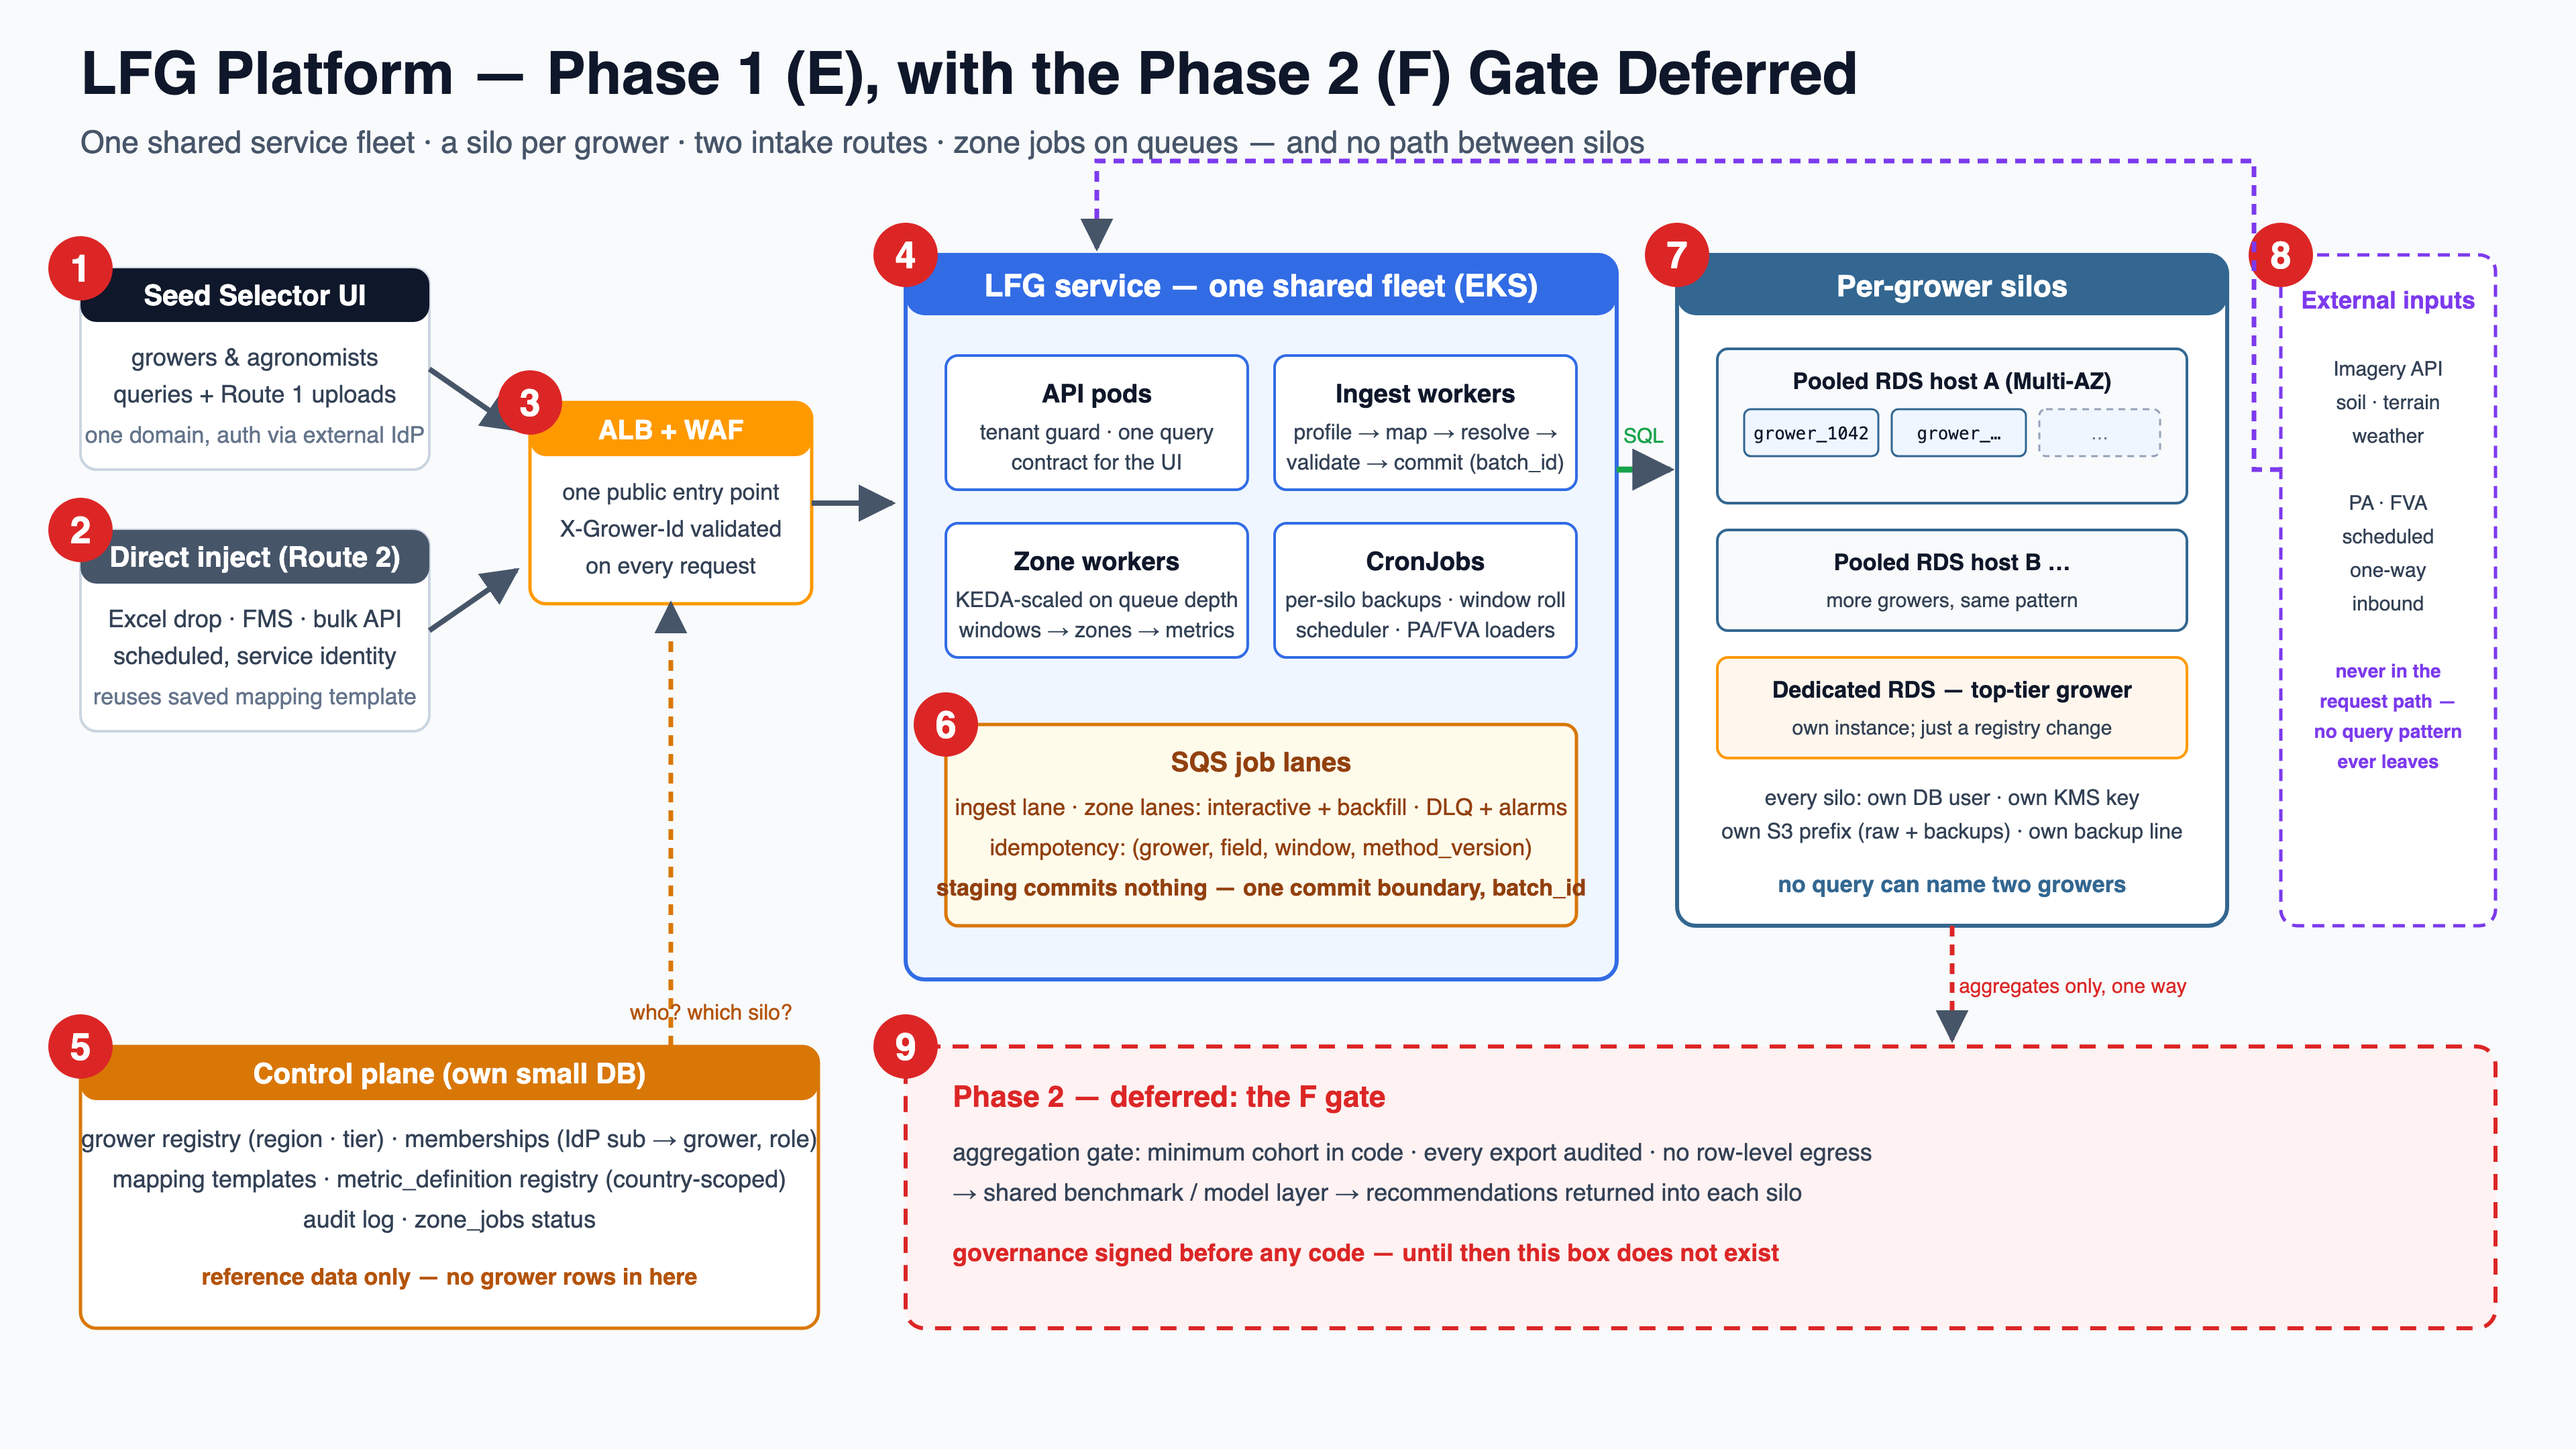
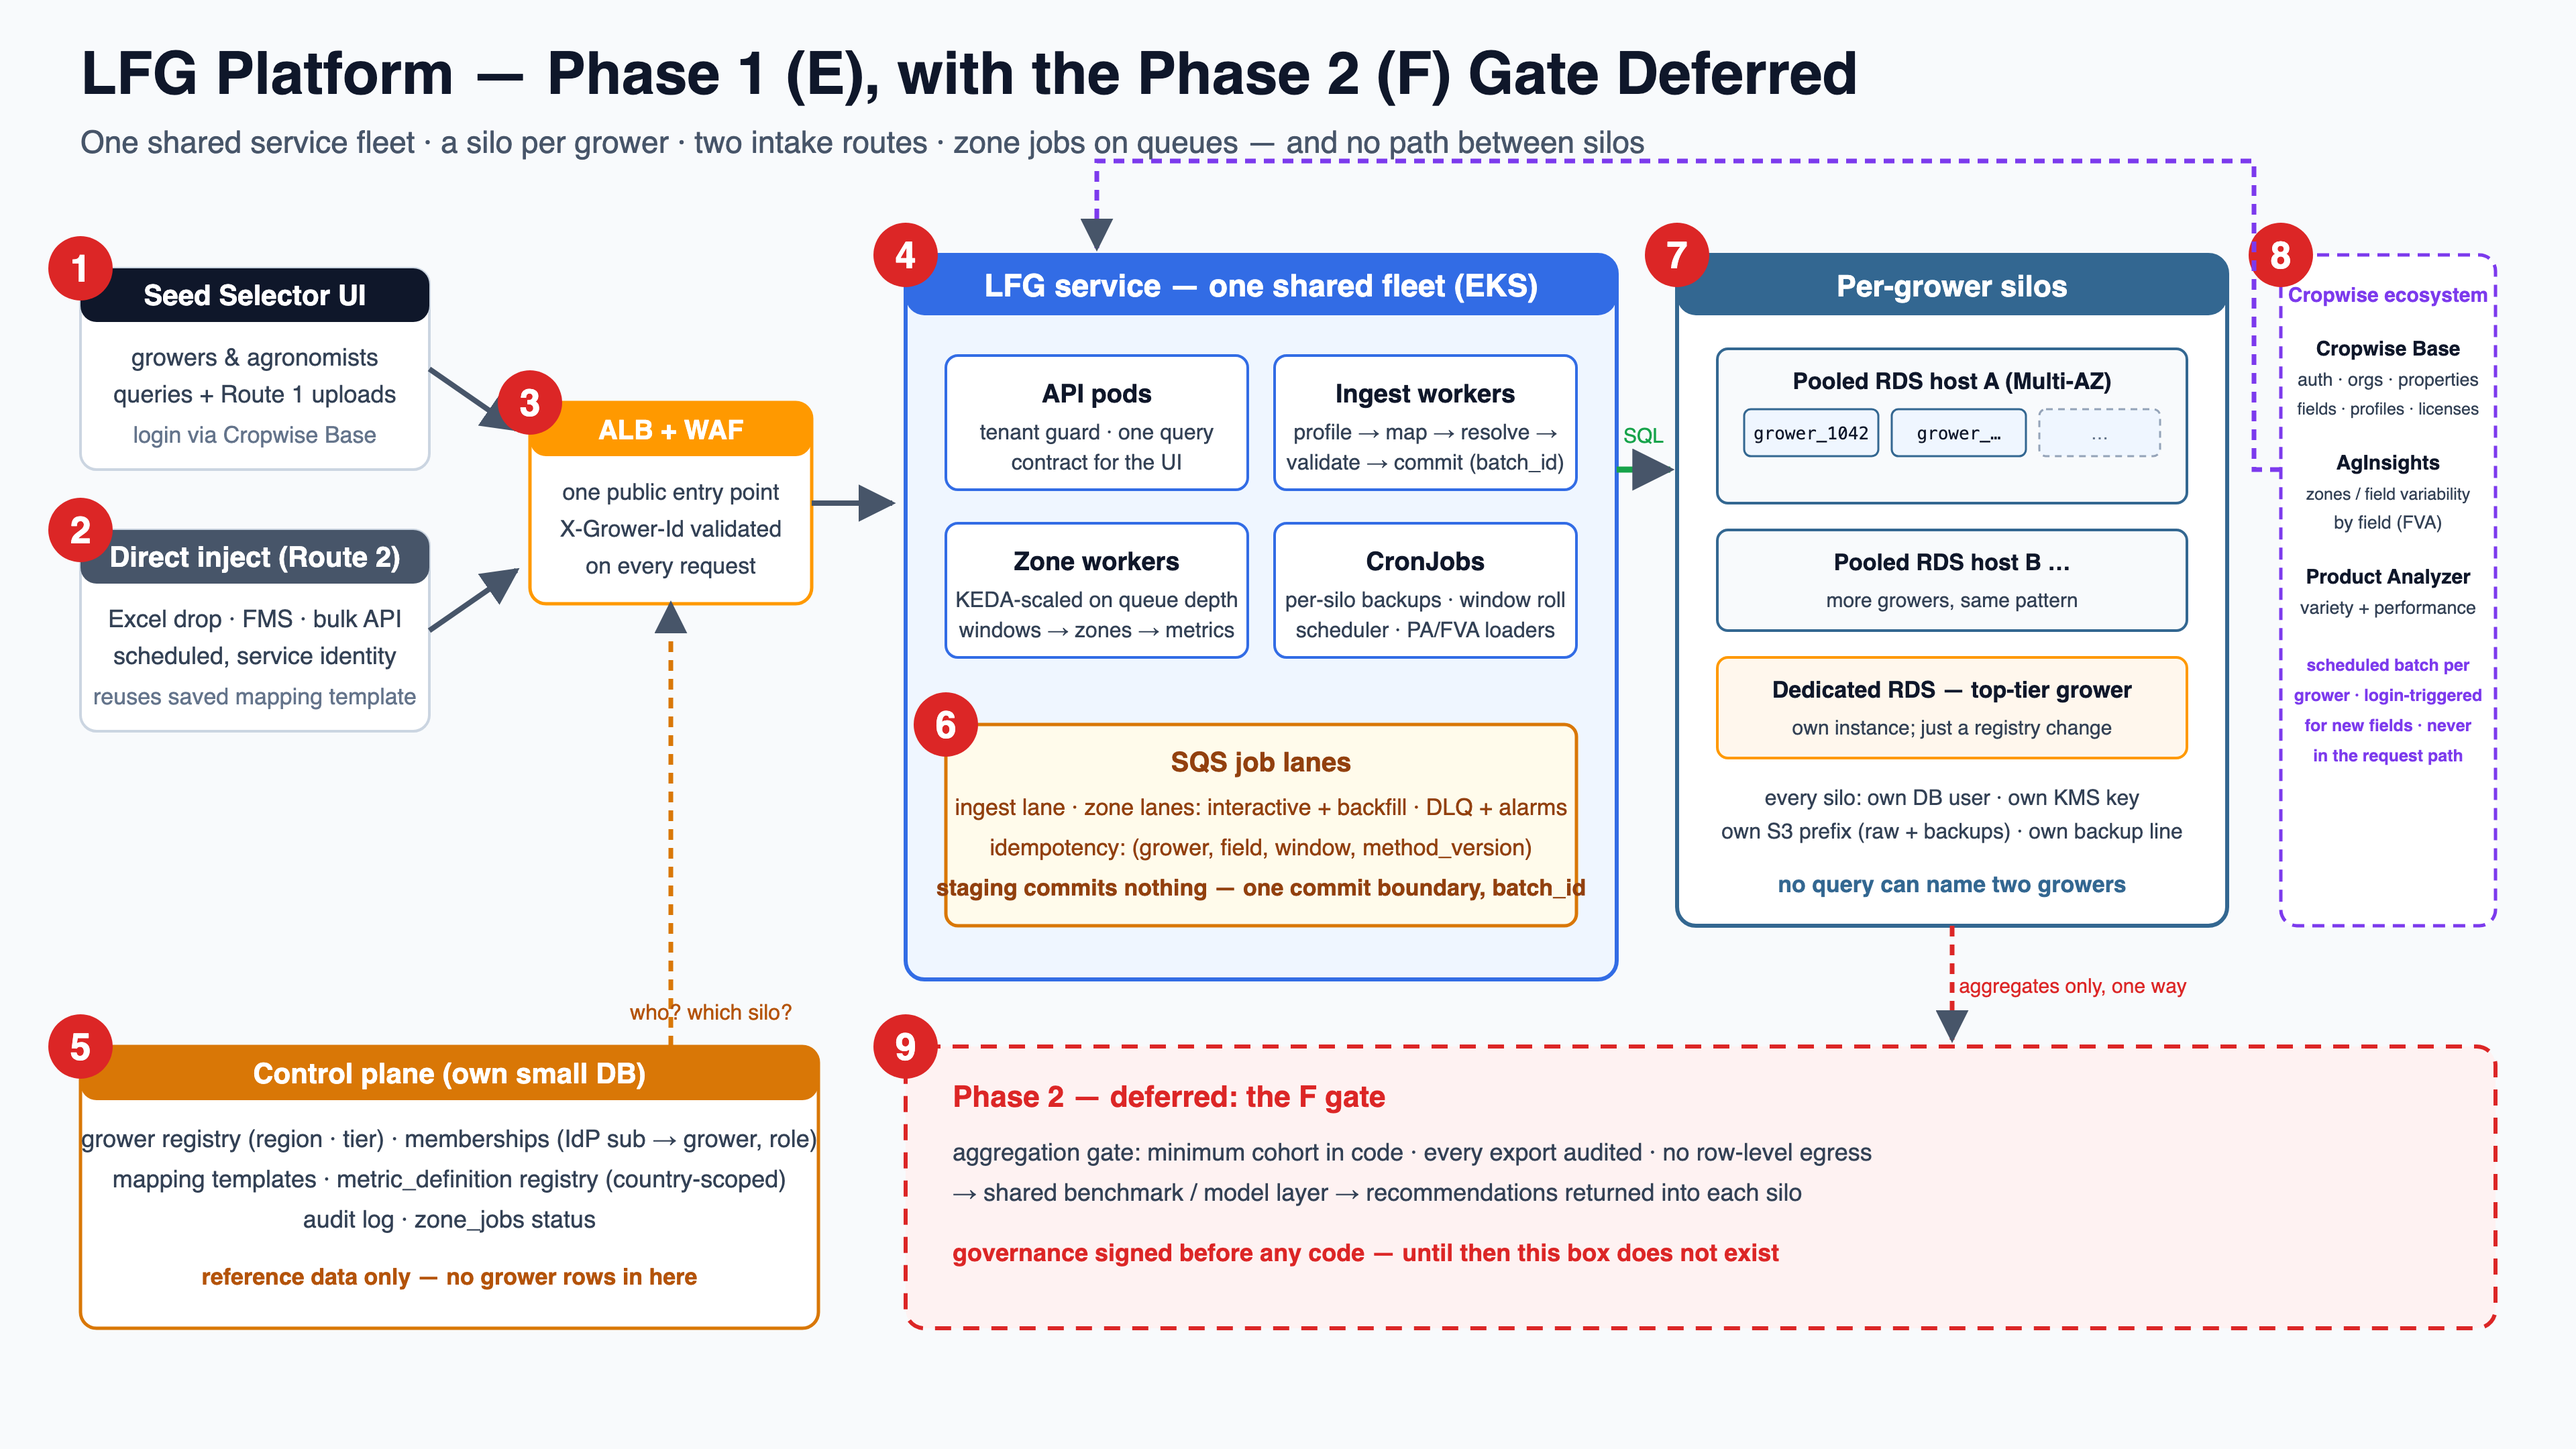
Align LFG architecture with the Cropwise ecosystem sketch
- Cropwise Base named as IdP + master-data source (auth, orgs, properties,
  fields, profiles, licenses) synced into the control plane
- AgInsights (FVA) is the zones/field-variability source: zone jobs now
  fetch from it — scheduled batch per grower + Seed Selector login-triggered
  enqueue for newly created fields (interactive lane)
- Product Analyzer as the variety+performance inbound feed
- Ingestion documents the real payload (bgf-records.json: yieldPerAc,
  tuberScore, returnPerAc, pd*, vxc, heterogeneity, consistency, ...)
- New ecosystem map table in the diagram section; diagram 11 updated

Changed region(s): [[0.875, 0.1861, 0.9688, 0.5273], [0.0312, 0.2792, 0.1562, 0.3102]]

diff --git a/docs/architecture-lfg.html b/docs/architecture-lfg.html
@@ -105,16 +105,30 @@
   <div class="panel">
     <b>What each number does</b>
     <ul class="check">
-      <li><b>1 · Seed Selector UI</b> — growers and agronomists on one domain, authenticated by the external IdP. All queries and Route 1 uploads start here; the UI holds no join logic (that was RFC figure 1's whole problem).</li>
+      <li><b>1 · Seed Selector UI</b> — growers and agronomists on one domain, authenticated via <b>Cropwise Base</b> (Seed Selector already uses it for login, orgs, properties, fields and user profiles). All queries and Route 1 uploads start here; the UI holds no join logic (that was RFC figure 1's whole problem).</li>
       <li><b>2 · Direct inject (Route 2)</b> — Excel drops, FMS connections and bulk API pushes on a schedule, running under a service identity. No human in the loop because the saved mapping template answers the human questions in advance (§5).</li>
       <li><b>3 · ALB + WAF</b> — the single public entry point. Every request's <code>X-Grower-Id</code> is membership-checked against the control plane before any handler runs; a non-member gets 403 (§8 security).</li>
       <li><b>4 · LFG service, one shared fleet (EKS)</b> — the same pods serve every grower: API pods (tenant guard + the one query contract), ingest workers (profile → map → resolve → validate → commit), KEDA-scaled zone workers, and CronJobs for backups, the window-roll scheduler and PA/FVA loaders.</li>
       <li><b>5 · Control plane</b> — its own small database holding <i>reference data only</i>: grower registry (region, tier), memberships, mapping templates, the country-scoped <code>metric_definition</code> registry, audit log and <code>zone_jobs</code> status. No grower rows live here — it answers "who are you, which silo is yours", nothing more (§1, §3).</li>
       <li><b>6 · SQS job lanes</b> — ingest lane plus the two zone lanes (interactive / backfill) with DLQ + alarms. Idempotency key <code>(grower, field, window, method_version)</code>; staging commits nothing — everything crosses one commit boundary stamped with <code>batch_id</code> (§5, §13).</li>
       <li><b>7 · Per-grower silos</b> — pooled Multi-AZ RDS hosts carrying many single-grower databases, plus dedicated instances for top-tier growers (a registry change, not a migration). Every silo: own DB user, own KMS key, own S3 prefix, own backup line — <i>no query can name two growers</i> (§2 isolation).</li>
-      <li><b>8 · External inputs</b> — imagery, soil/terrain/weather context, and the PA/FVA feeds: all <b>scheduled, one-way, inbound</b>. Nothing resolves a live request by calling out, so no grower query pattern ever leaves the boundary (isolation level 3).</li>
+      <li><b>8 · The Cropwise ecosystem</b> — three inbound feeds, all <b>scheduled, one-way</b>: <b>Cropwise Base</b> (identity + master data: orgs, properties, fields, profiles, licenses — synced into the control plane), <b>AgInsights</b> (zones / field variability by field — pulled by the zone jobs, §13), and <b>Product Analyzer</b> (variety + performance). Nothing resolves a live request by calling out, so no grower query pattern ever leaves the boundary (isolation level 3).</li>
       <li><b>9 · Phase 2 — the F gate (deferred)</b> — drawn dashed because it does not exist yet: the governed aggregation gate (minimum cohort in code, audited, no row egress) feeding the shared benchmark layer. Governance is signed before any code; until then the only thing crossing this line is nothing (§1).</li>
     </ul>
+  </div>
+  <div class="panel">
+    <b>Where LFG sits in the Cropwise ecosystem</b>
+    <table>
+      <thead><tr><th>System</th><th>Provides</th><th>How LFG consumes it</th></tr></thead>
+      <tbody>
+        <tr><td><b>Cropwise Base</b></td><td>auth · orgs · properties · fields · user profiles · workspaces · licenses</td><td>identity (login token → <code>sub</code>) + master-data sync into the control plane; LFG never re-implements login or field registration</td></tr>
+        <tr><td><b>Cropwise Seed Selector</b></td><td>the grower-facing app (already logging in via Cropwise Base)</td><td>the front door: hosts the LFG UI; a login event also triggers zone jobs for the grower's newly created fields (§13)</td></tr>
+        <tr><td><b>AgInsights (FVA)</b></td><td>zones / field variability by field</td><td>pulled by the zone-job queue — scheduled batch per grower + login-triggered for new fields; results become immutable window vintages (§4, §13)</td></tr>
+        <tr><td><b>Product Analyzer</b></td><td>variety + performance data</td><td>scheduled, one-way, inbound feed (with the Q4 reconciliation report)</td></tr>
+        <tr><td><b>Grower's own data</b></td><td>variety-performance records (the <code>bgf-records.json</code> shape)</td><td>Route 1 UI upload or Route 2 direct inject from their database (§5)</td></tr>
+      </tbody>
+    </table>
+    <p class="muted" style="color:var(--muted);font-size:.88rem">LFG = <b>UI LFG + Backend LFG</b> in the sketch — the standalone service pair; everything above feeds it, nothing queries out of it at request time.</p>
   </div>
 </section>
 
@@ -231,10 +245,17 @@ metric_definition              ingest_row   (raw JSONB · error)
 <section id="ingest">
   <h2><span class="secnum">5</span> Two intake routes, one pipeline (RFC fig 2)</h2>
   <p class="lead"><b>Route 1</b>: a grower uploads a CSV/XLSX through the UI and maps it once.
-  <b>Route 2</b>: direct inject — an Excel drop, an FMS connection or a bulk API push on a schedule,
-  no human in the loop. They differ only in where they enter: Route 2 reuses the saved mapping
-  template and starts at entity resolution. From validation down, the path and the commit boundary
-  are identical.</p>
+  <b>Route 2</b>: direct inject — an Excel drop, an FMS/database connection or a bulk API push on a
+  schedule, no human in the loop. They differ only in where they enter: Route 2 reuses the saved
+  mapping template and starts at entity resolution. From validation down, the path and the commit
+  boundary are identical.</p>
+  <div class="callout"><b>The real payload shape</b> — the grower's variety-performance records
+  (see <code>bgf-records.json</code>): per field-year-variety rows carrying <code>yieldPerAc</code>,
+  <code>tuberScore</code>, <code>returnPerAc</code>, <code>pdYield / pdTuber / pdReturn</code>,
+  <code>vxc</code>, <code>heterogeneity</code>, <code>consistency</code>, irrigation/water/power
+  attributes, area and abandonment. Every one of these becomes a <code>metric_definition</code> row
+  (§3) and lands as fact rows — uploaded via the UI (Route 1) or pushed straight from the grower's
+  own database (Route 2).</div>
 
   <div class="flow">
     <div class="fstep" style="--c:var(--blue)"><span class="n">1</span><b>Upload</b><span>File stored (per-silo S3 prefix); one <code>ingest_batch</code> row created. Route 2 enters here on a schedule with a service identity.</span></div>
@@ -479,8 +500,8 @@ metric_definition              ingest_row   (raw JSONB · error)
   asynchronous job queue on SQS, with worker pods on EKS.</p>
 
   <div class="flow">
-    <div class="fstep" style="--c:var(--blue)"><span class="n">1</span><b>Enqueue</b><span>Triggers: a new field commits its boundary · the annual window roll (scheduler) · a manual re-run. Message = <code>(grower, field, window, method_version)</code> — that tuple is the <b>idempotency key</b>.</span></div>
-    <div class="fstep" style="--c:var(--blue)"><span class="n">2</span><b>Fetch inputs</b><span>Imagery API + public soil/drainage/terrain context. Rate-limited per provider token bucket; responses cached in S3 so a retry never re-pays the API call.</span></div>
+    <div class="fstep" style="--c:var(--blue)"><span class="n">1</span><b>Enqueue</b><span>Triggers: the <b>scheduled batch per grower</b> · a <b>Seed Selector login</b> enqueues that grower's newly created fields (interactive lane) · a manual re-run. Message = <code>(grower, field, window, method_version)</code> — the <b>idempotency key</b>.</span></div>
+    <div class="fstep" style="--c:var(--blue)"><span class="n">2</span><b>Fetch from AgInsights</b><span>Zones / field variability by field come from <b>AgInsights (FVA)</b>, not raw imagery. Rate-limited per token bucket; responses cached in S3 so a retry never re-pays the call.</span></div>
     <div class="fstep" style="--c:var(--violet)"><span class="n">3</span><b>Compute zones</b><span>Worker pod derives zone geometries + per-zone metrics (PD, PAF) for the window. CPU-heavy; workers scale on queue depth (KEDA/HPA), not on HTTP traffic.</span></div>
     <div class="fstep" style="--c:var(--amber)"><span class="n">4</span><b>Validate</b><span>Same gates as ingest: valid polygons, within field boundary, metric ranges from <code>metric_definition</code>. Failures → job error state, not partial data.</span></div>
     <div class="fstep" style="--c:var(--green)"><span class="n">5</span><b>Commit</b><span>One transaction: new <code>variability_window</code> version + zones + <code>zone_metric</code> rows, stamped <code>batch_id</code>. Previous version superseded, never edited (§4).</span></div>
@@ -498,9 +519,10 @@ metric_definition              ingest_row   (raw JSONB · error)
       </ul>
     </div>
     <div class="panel">
-      <b>The annual window roll</b>
+      <b>Batch per grower + login triggers</b>
       <ul class="check">
-        <li>A scheduler (EventBridge cron) walks the registry once per season: for every active field, enqueue the next window (e.g. 2019–2024 once 2024 closes) on the backfill lane, throttled.</li>
+        <li><b>Scheduled batch per grower</b> (EventBridge cron): walk that grower's fields, enqueue any missing/next window (e.g. 2019–2024 once 2024 closes) on the backfill lane, throttled.</li>
+        <li><b>Login-triggered:</b> when a user logs into Seed Selector, an event enqueues zone jobs for that grower's <i>newly created fields</i> on the interactive lane — fresh fields get zones while the user is still in the session, without waiting for the nightly batch.</li>
         <li>New method version (algorithm change) = optional re-enqueue of recent windows with the new <code>method_version</code> — old vintages stay, comparisons stay honest.</li>
         <li>Progress is observable per grower: "fields zoned for window W: 1,240 / 1,300, 4 failed" — from the <code>zone_jobs</code> table, no log-diving.</li>
       </ul>
